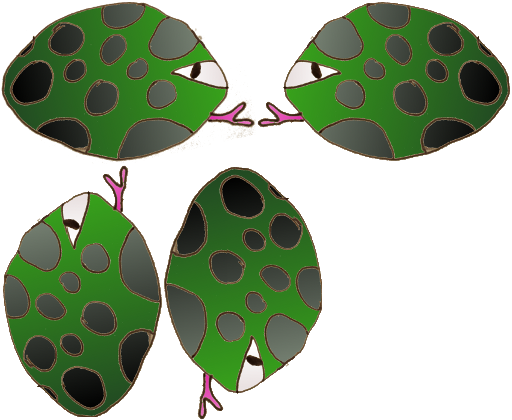
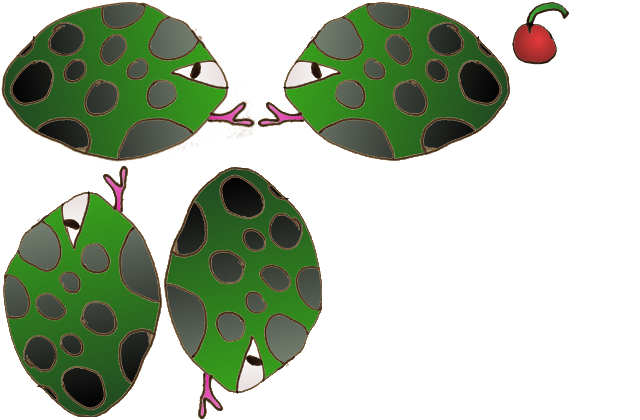
Place a cherry

diff --git a/main.go b/main.go
@@ -22,6 +22,14 @@ import (
 	"golang.org/x/mobile/sprite/glsprite"
 )
 
+const (
+	// ratio 0.28
+	// 256x164
+	snakew, snakeh = float32(72), float32(46)
+	// 59x64
+	cerisew, ceriseh = float32(16), float32(18)
+)
+
 var (
 	start     = time.Now()
 	lastClock = clock.Time(-1)
@@ -101,10 +109,17 @@ func loadScene() {
 	n = newNode()
 	snake = NewSnake(float32(geom.Width/2), float32(geom.Height/2))
 	n.Arranger = snake
+
+	n = newNode()
+	eng.SetSubTex(n, texs[texCerise])
+	eng.SetTransform(n, f32.Affine{
+		{cerisew, 0, 20},
+		{0, ceriseh, 40},
+	})
+
 }
 
 func (s *Snake) Arrange(e sprite.Engine, n *sprite.Node, t clock.Time) {
-	snakew, snakeh := float32(72), float32(46)
 	var w, h float32
 	switch s.Dir {
 	case Up:
@@ -148,6 +163,7 @@ const (
 	texSnakeHeadL
 	texSnakeHeadU
 	texSnakeHeadD
+	texCerise
 )
 
 func loadTextures() []sprite.SubTex {
@@ -170,6 +186,7 @@ func loadTextures() []sprite.SubTex {
 		texSnakeHeadL: sprite.SubTex{t, image.Rect(256, 0, 512, 164)},
 		texSnakeHeadU: sprite.SubTex{t, image.Rect(0, 164, 164, 420)},
 		texSnakeHeadD: sprite.SubTex{t, image.Rect(164, 164, 328, 420)},
+		texCerise:     sprite.SubTex{t, image.Rect(512, 0, 571, 64)},
 	}
 }
 
